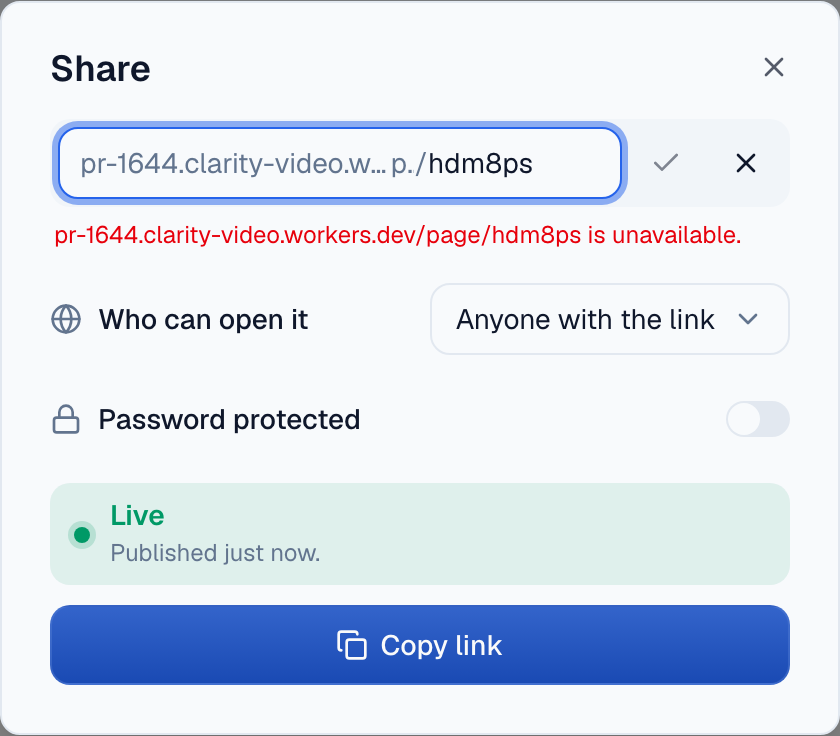
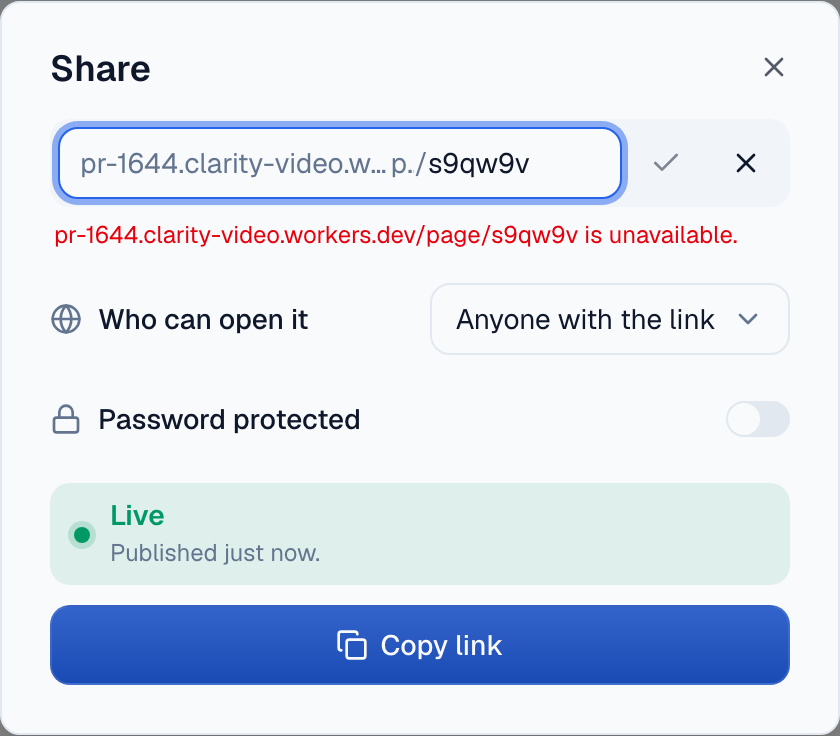
Publish change-page-link-proof (20261102T174017Z)

Changed region(s): [[0.5881, 0.3125, 0.8976, 0.3438], [0.4952, 0.1875, 0.65, 0.25]]

diff --git a/change-page-link-proof/index.html b/change-page-link-proof/index.html
@@ -1,1 +1,1 @@
-<!doctype html><meta charset=utf-8><title>Change the page link, preview proof</title><body style="font:14px system-ui;background:#111;color:#eee;padding:20px"><h1 style="font-size:18px">Change the page link: PR #1644 preview, commit bb0624295</h1><p>Screenshots from the PR preview. Test data only.</p><figure style="margin:0 0 24px"><figcaption style="margin-bottom:6px">01-before.png</figcaption><img src="01-before.png" style="max-width:420px;width:100%"></figure><figure style="margin:0 0 24px"><figcaption style="margin-bottom:6px">02-field-open.png</figcaption><img src="02-field-open.png" style="max-width:420px;width:100%"></figure><figure style="margin:0 0 24px"><figcaption style="margin-bottom:6px">03-invalid.png</figcaption><img src="03-invalid.png" style="max-width:420px;width:100%"></figure><figure style="margin:0 0 24px"><figcaption style="margin-bottom:6px">04-unavailable.png</figcaption><img src="04-unavailable.png" style="max-width:420px;width:100%"></figure><figure style="margin:0 0 24px"><figcaption style="margin-bottom:6px">05-available.png</figcaption><img src="05-available.png" style="max-width:420px;width:100%"></figure><figure style="margin:0 0 24px"><figcaption style="margin-bottom:6px">06-saved.png</figcaption><img src="06-saved.png" style="max-width:420px;width:100%"></figure><figure style="margin:0 0 24px"><figcaption style="margin-bottom:6px">07-after-reload.png</figcaption><img src="07-after-reload.png" style="max-width:420px;width:100%"></figure><figure style="margin:0 0 24px"><figcaption style="margin-bottom:6px">08-visitor-at-custom-link.png</figcaption><img src="08-visitor-at-custom-link.png" style="max-width:420px;width:100%"></figure><figure style="margin:0 0 24px"><figcaption style="margin-bottom:6px">09-move-offer.png</figcaption><img src="09-move-offer.png" style="max-width:420px;width:100%"></figure><figure style="margin:0 0 24px"><figcaption style="margin-bottom:6px">10-limit.png</figcaption><img src="10-limit.png" style="max-width:420px;width:100%"></figure><figure style="margin:0 0 24px"><figcaption style="margin-bottom:6px">11-link-off.png</figcaption><img src="11-link-off.png" style="max-width:420px;width:100%"></figure><figure style="margin:0 0 24px"><figcaption style="margin-bottom:6px">12-phone-view.png</figcaption><img src="12-phone-view.png" style="max-width:420px;width:100%"></figure><figure style="margin:0 0 24px"><figcaption style="margin-bottom:6px">13-phone-editing.png</figcaption><img src="13-phone-editing.png" style="max-width:420px;width:100%"></figure><figure style="margin:0 0 24px"><figcaption style="margin-bottom:6px">14-dark.png</figcaption><img src="14-dark.png" style="max-width:420px;width:100%"></figure>
+<!doctype html><meta charset=utf-8><title>Change the page link, preview proof</title><body style="font:14px system-ui;background:#111;color:#eee;padding:20px"><h1 style="font-size:18px">Change the page link: PR #1644 preview, commit 52c3ab12a</h1><p>Screenshots from the PR preview. Test data only.</p><figure style="margin:0 0 24px"><figcaption style="margin-bottom:6px">01-before.png</figcaption><img src="01-before.png" style="max-width:420px;width:100%"></figure><figure style="margin:0 0 24px"><figcaption style="margin-bottom:6px">02-field-open.png</figcaption><img src="02-field-open.png" style="max-width:420px;width:100%"></figure><figure style="margin:0 0 24px"><figcaption style="margin-bottom:6px">03-dashes.png</figcaption><img src="03-dashes.png" style="max-width:420px;width:100%"></figure><figure style="margin:0 0 24px"><figcaption style="margin-bottom:6px">04-unavailable.png</figcaption><img src="04-unavailable.png" style="max-width:420px;width:100%"></figure><figure style="margin:0 0 24px"><figcaption style="margin-bottom:6px">05-available.png</figcaption><img src="05-available.png" style="max-width:420px;width:100%"></figure><figure style="margin:0 0 24px"><figcaption style="margin-bottom:6px">05b-failed.png</figcaption><img src="05b-failed.png" style="max-width:420px;width:100%"></figure><figure style="margin:0 0 24px"><figcaption style="margin-bottom:6px">06-saved.png</figcaption><img src="06-saved.png" style="max-width:420px;width:100%"></figure><figure style="margin:0 0 24px"><figcaption style="margin-bottom:6px">07-after-reload.png</figcaption><img src="07-after-reload.png" style="max-width:420px;width:100%"></figure><figure style="margin:0 0 24px"><figcaption style="margin-bottom:6px">08-visitor-at-custom-link.png</figcaption><img src="08-visitor-at-custom-link.png" style="max-width:420px;width:100%"></figure><figure style="margin:0 0 24px"><figcaption style="margin-bottom:6px">09-move-offer.png</figcaption><img src="09-move-offer.png" style="max-width:420px;width:100%"></figure><figure style="margin:0 0 24px"><figcaption style="margin-bottom:6px">11-link-off.png</figcaption><img src="11-link-off.png" style="max-width:420px;width:100%"></figure><figure style="margin:0 0 24px"><figcaption style="margin-bottom:6px">12-phone-view.png</figcaption><img src="12-phone-view.png" style="max-width:420px;width:100%"></figure><figure style="margin:0 0 24px"><figcaption style="margin-bottom:6px">13-phone-editing.png</figcaption><img src="13-phone-editing.png" style="max-width:420px;width:100%"></figure><figure style="margin:0 0 24px"><figcaption style="margin-bottom:6px">14-dark.png</figcaption><img src="14-dark.png" style="max-width:420px;width:100%"></figure>

diff --git a/index.html b/index.html
@@ -1,8 +1,8 @@
 <!doctype html><meta charset="utf-8"><title>Clarity design previews</title>
 <style>body{font-family:system-ui,sans-serif;max-width:40rem;margin:4rem auto;padding:0 1rem;color:#0f172a}a{color:#2563eb}li{margin:.4rem 0}</style>
 <h1>Clarity design previews</h1>
+<li><a href="./change-page-link-proof/">Change the page link, preview proof for PR 1644</a> <small>20261102T174017Z</small></li>
 <li><a href="./proof-1635/">Proof for PR 1635</a> <small>20261102T165201Z</small></li>
-<li><a href="./change-page-link-proof/">Change the page link, preview proof for PR 1644</a> <small>20261102T164526Z</small></li>
 <li><a href="./ask-clarity-d10-quality-2026-11-02/">Ask Clarity D10 quality, complete CI control and D9 comparison</a> <small>20261102T142858Z</small></li>
 <li><a href="./proof-1641/">Proof for PR 1641</a> <small>20261102T141954Z</small></li>
 <li><a href="./proof-1603/">Proof for PR 1603</a> <small>20261102T133601Z</small></li>
